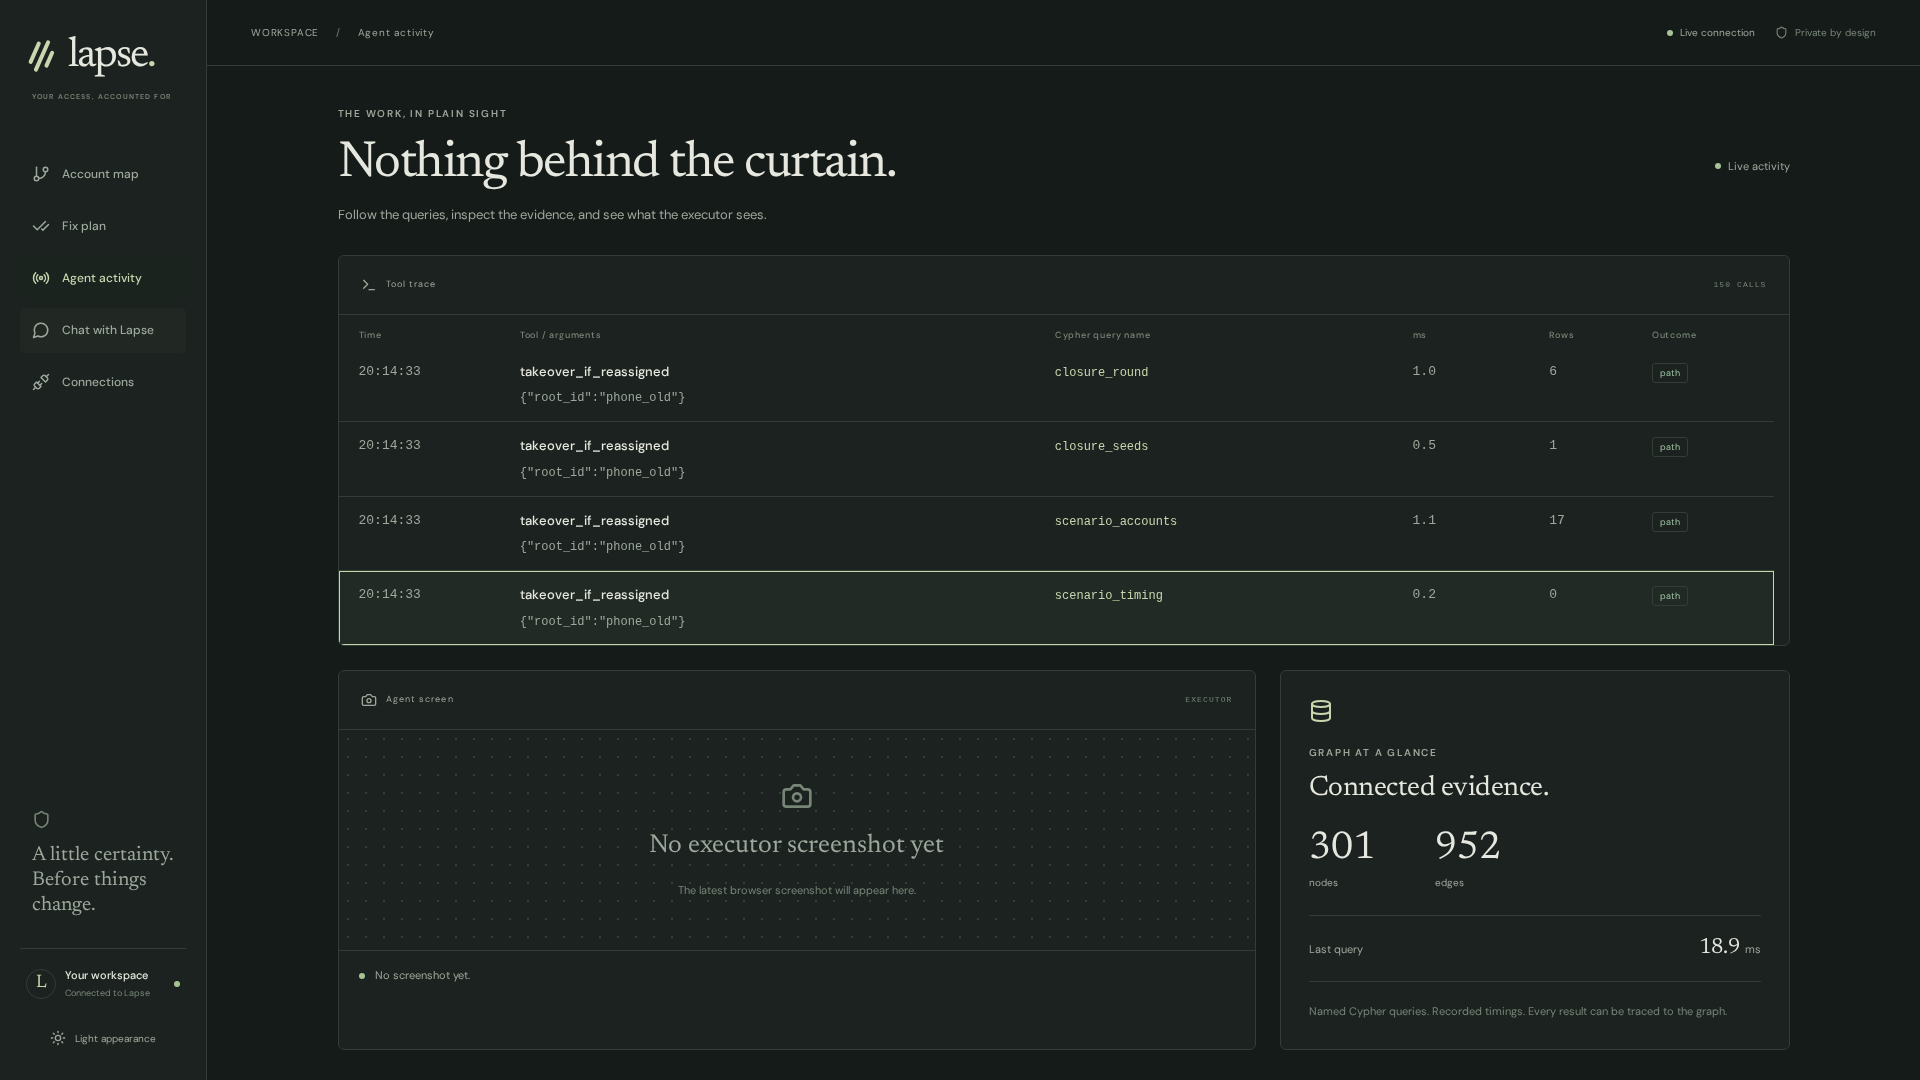
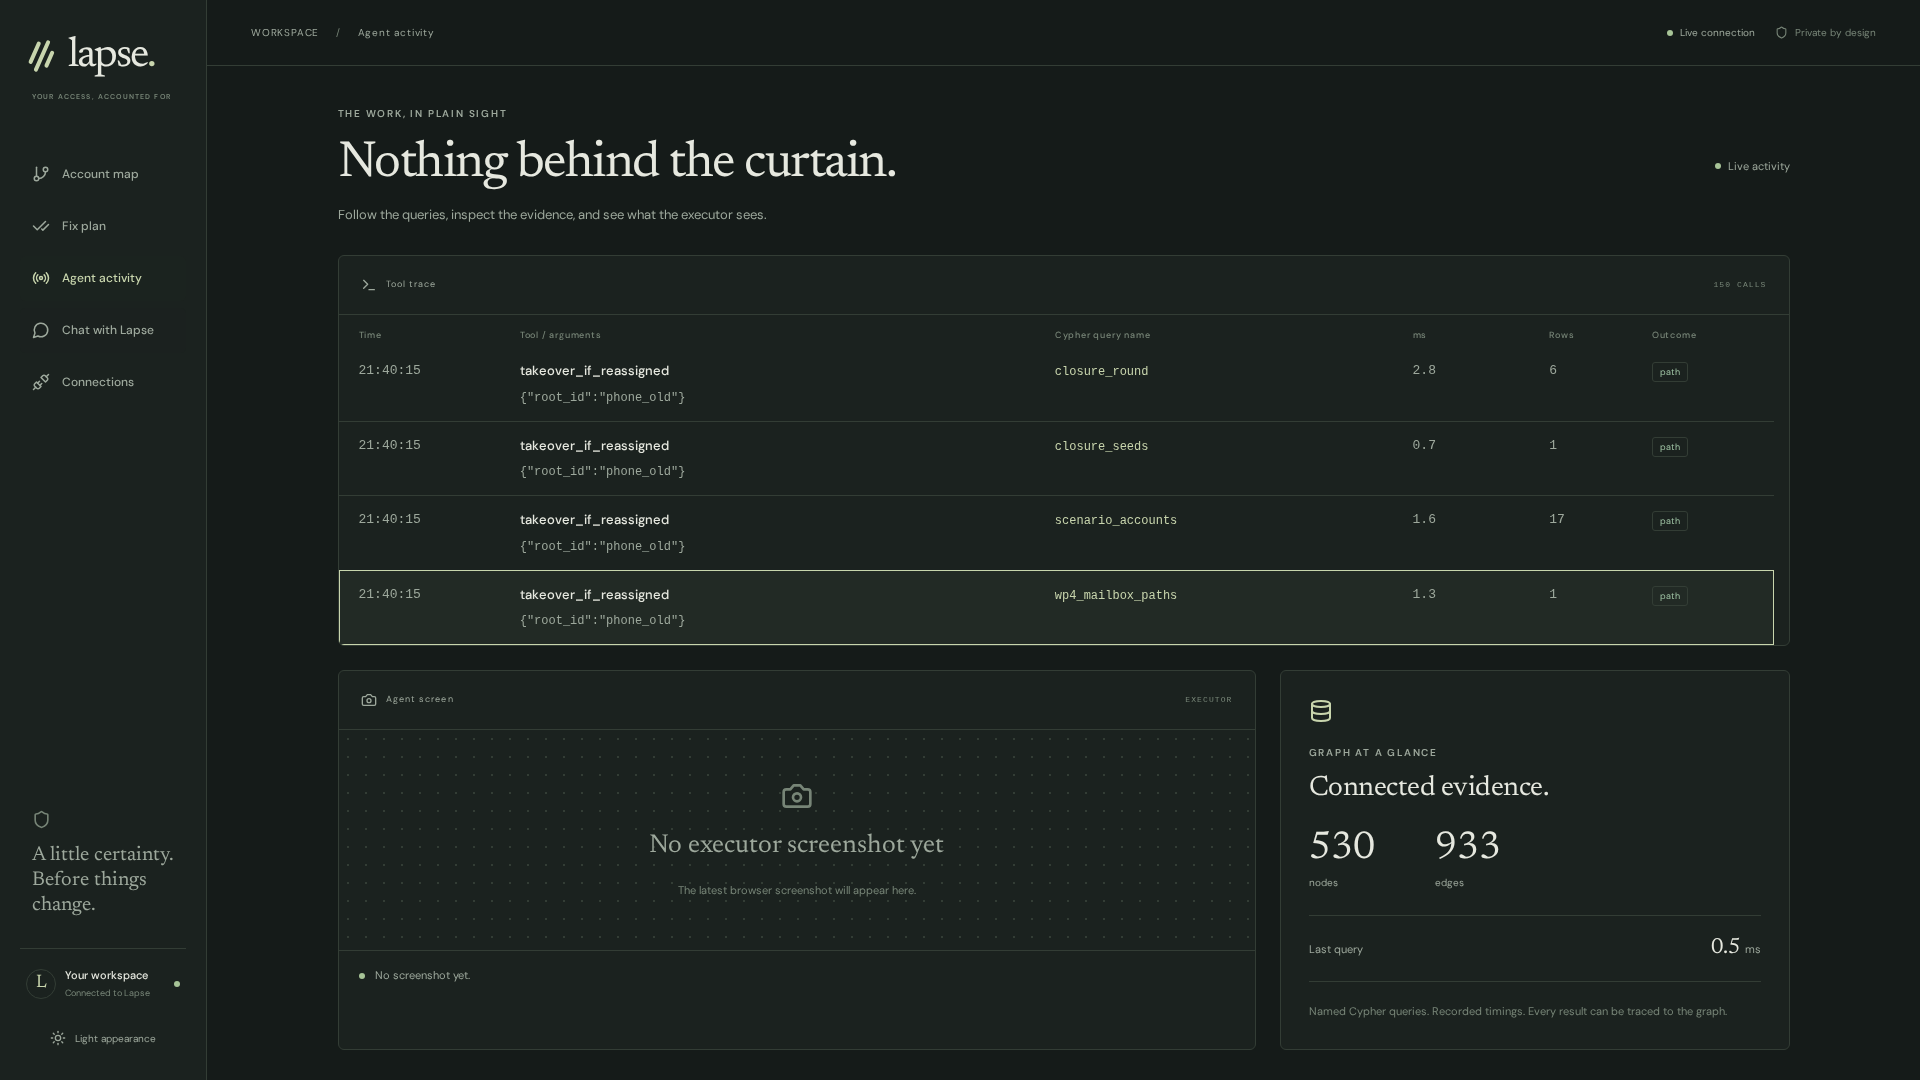
Merge branch 'wp6r2-web': live web integration, chat panel, trace, screenshots

diff --git a/web/docs/verification.md b/web/docs/verification.md
@@ -1,23 +1,55 @@
-# WP6 verification
+# WP6 round 2 verification
 
-Verified 2026-10-17 in the local worktree, against the mock API.
+Verified 2026-10-17 on `wp6r2-web`, after merging `main` at `c7504a6`. The inherited checkpoint is `c0f71ee`; the merge is `53d1bf2`. This report replaces the earlier mock-only verification.
 
-- `npm run typecheck`, `npm test`: passed; 12 tests cover REST/SSE parsing, 5-to-10 account reach, mailbox Root distinction, AND prerequisites, unknown service, college lockout, approval/OTP transitions, graph rewiring, migrated-email takeover risk, stable tiers, bulk T4 exclusion, secret clearing, and stale explanation refresh.
-- `npm run build`: passed. Bundler reports a large graph-inclusive bundle; no build failure. `npm audit`: zero reported vulnerabilities after selecting the current Vitest release.
-- Real browser, 1920×1080 viewport: direct/full cascade; Dropbox path and both prerequisites; GitHub blocked; Splitwise unknown; college 4/4; combined 9/14; approval, OTP, verification, graph count reduction; agent screenshot and 26 trace rows.
-- Connections: fictional credentials submitted, password cleared before response; streamed 1,240 emails, 17 accounts, inferred/confirmed counts; Telegram placeholder displayed. Browser localStorage/sessionStorage remained empty. OTP did not appear in trace text.
-- Light appearance and 390px connections layout: no horizontal overflow.
-- Reduced motion checked on the real browser by injecting the `matchMedia` preference and activating the existing reduced-motion CSS rule. Full chain immediately showed round 3/3; button transitions contained only background-color and opacity. Native OS-level preference emulation was not available through the collaborative browser.
-- Independent read-only review found two defects, both corrected: migrated college accounts incorrectly lost takeover exposure, and an open explanation could remain stale after a verified change. A follow-up review found that compaction hid fixed nodes; completed accounts and their descendants now remain visible. Live Cytoscape checks confirmed Google and Dropbox were green, the phone_new-to-Google edge remained present, and Splitwise was not safe. The final reviewer found no remaining blocker. A comment review found no source comments or suppressions requiring changes.
+## Results
 
-## Replay
+- `uv sync`, `make fixture`, and `npm ci` completed. API ran with `LAPSE_UID=demo` on port 8020 against shared FalkorDB on 6380. No environment file or private persona file was opened.
+- `npm run typecheck`, `npm test`, and `npm run build` passed. Frontend has 35 tests. Build retains a large graph bundle warning and third-party Zod annotation warnings.
+- `uv run --extra browser pytest -q`: 607 passed, including database tests. The browser extra is required by the merged executor tests. `tests/test_api.py` has 39 passing tests; together with `tests/test_wave2_api.py`, 40 pass.
+- Ruff passed for the changed Python files, and `git diff --check` passed.
+- `scripts/verify-live.mjs` passed against Vite on 5174 with `VITE_USE_MOCK=false`, then against the production build behind nginx 1.28 on 8082. The nginx check used the deployment proxy directives with the upstream changed to local port 8020. REST and SSE used relative `/api`; the final browser request origins are in [live-checks.json](live-checks.json).
+- Screenshots use 1920×1080, except `connections-mobile.png` at 390×844. No browser exceptions were observed. Native reduced-motion emulation showed the final cascade round immediately. Light appearance and narrow Connections layout passed the overflow check.
 
-1. Start `npm run dev`; reload to reset the mock.
-2. Verify 5 direct / 10 full accounts, then switch Full chain and wait for round 3/3. Inspect Dropbox, scroll evidence, then GitHub and Splitwise.
-3. Choose College email closes and verify four affected accounts; inspect Google for retained sign-in. Choose Both and verify nine direct / fourteen full accounts.
-4. Build the fix plan. Approve all T1–T3. Confirm Zomato T4 remains unapproved, Google and Swiggy await OTP, T1 completes, and T3 awaits the user before simulated confirmation.
-5. Submit six digits for Google; return to the map with Dropbox selected. Its previous derivation must disappear. One unknown account must remain.
-6. Inspect Agent activity. The screenshot is labelled simulated; query names, timings, row counts and outcomes are visible.
-7. Connect with fictional credentials. Confirm the password field clears and discovery counters progress. Check light appearance, narrow viewport, and reduced motion.
+## Real behavior checked
 
-Live backend interoperability remains unverified because the backend is built in parallel. Screenshot files are browser artifacts, resized by the preview capture tool from the desktop viewport.
+The graph loads roots and returns 5 direct and 10 full-chain accounts for the old phone. The cascade visibly advances through rounds 1, 2, and 3 without moving the map frame. Dropbox shows its evidence subject and sender. Splitwise says it is not in the graph of modelled methods and remains unknown, not safe.
+
+College closure returns zero fresh-sign-in lockouts with the current researched policy. The summary shows `0 lost now` and `Recovery loss not reported`. Password knowledge still permits sign-in under the methods we model. Unit tests cover future `lost_now_accounts` and `recovery_lost_accounts`, including separate counts, account labels, duplicate results, and exclusion of Root nodes. These optional tiers were not fabricated in live screenshots.
+
+The phone plan reports 10 → 0 distinct affected accounts, with separate takeover and lockout counts, remaining and unknown accounts, grouped roles, titles, and notes. Swiggy and Zomato have visible T3 manual instructions. The first live pass exercised per-step approval and bulk approval. Repeated runs reuse unfinished plans and skip approvals already completed. No worker was started to carry out external account changes.
+
+Chat POSTs to the real agent, shows `Working…`, renders the returned text and buttons, opens the risk graph and plan, and links a tool to its highlighted trace row. The trace shows tool, named Cypher query, milliseconds, rows, and outcome. Stats and the empty executor screen use real API responses.
+
+Connections saved explicit fixture email metadata through the real API and returned a Telegram link. No Telegram message was sent. Browser storage remained empty. Tests verify credential clearing, reuse of a matching email root, automatic personal-root creation for supplied credentials, and forwarding only that root ID to ingestion. Live inbox ingestion was not attempted without test mailbox credentials.
+
+`scripts/verify-execution.mjs` stages an explicitly labelled OTP wait, submits a generated test code through the UI, consumes it once from Redis, and checks that it is absent from trace data. Exec and trace SSE updates reach the page. The script also captures a local test page through the real `StepEmitter.screenshot`, serves its nested image through the API, and verifies browser image decoding. The original change and screenshot pointer are restored. This verifies transport, not an external service change.
+
+## Integration fixes
+
+Web changes complete live chat, trace links, scenario refresh, planner details, truthful lockout summaries, optional recovery tiers, OTP relay, and onboarding. Mock mode defaults to off; nginx requests use relative `/api`.
+
+Small API changes keep the inherited port-5174 CORS allowance, accept the executor's JSON screenshot pointer and nested image paths, and forward optional ingestion root IDs to the existing worker. Screenshot path containment and extension checks remain in place. The API regression tests were run failing before these fixes and passing afterward. Main's async chat fix is preserved. Shared graph contracts and graph semantics were not changed on this branch.
+
+Independent review found the screenshot and onboarding mismatches, then a fresh review checked the fixes and found no source blockers. Its checks included typecheck, 35 frontend tests, production build, and 39 API tests. Comment review found no actionable added comments. Review used the same provider; it was independent context, not cross-provider review.
+
+## Screenshot index
+
+All files below are in [screenshots](screenshots/). Older mock screenshots were removed to avoid mixing evidence.
+
+| View | Files |
+| --- | --- |
+| Account map | `graph-direct.png`, `graph-full.png`, `graph-college.png`, `graph-both.png` |
+| Explanation | `explanation-evidence.png`, `unknown-splitwise.png` |
+| Plan | `plans.png`, `plans-phone.png`, `plans-manual-steps.png`, `plans-approved.png` |
+| Staged OTP | `plan-awaiting-otp.png` |
+| Chat | `chat-working.png`, `chat.png` |
+| Trace, stats, screen | `agent-trace.png`, `agent-screen-staged.png` |
+| Connections | `connections.png`, `connections-saved.png`, `connections-mobile.png` |
+| Appearance and motion | `graph-light-reduced-motion.png` |
+
+## Remaining limits
+
+The API does not yet return the two lockout tiers. Chat exposes tool names without a turn/call ID, so simultaneous Telegram activity can make trace correlation approximate. Redis SSE has no event replay; the UI refetches state on reconnect. External inbox discovery and live account execution require configured test accounts and were not claimed as verified here.
+
+See [web setup](../README.md) for replay commands. Fixture loading replaces the shared demo graph; coordinate with other work before reloading it. The live script approves demo steps and saves persona metadata. The execution script additionally requires `uv sync --extra browser` and installed Playwright Chromium.

diff --git a/docs/api.md b/docs/api.md
@@ -7,7 +7,7 @@ Shared graph models come from [lapse/contracts.py](../lapse/contracts.py).
 Dates use `YYYY-MM-DD`. Datetimes use ISO 8601 with a timezone. Enums use lowercase strings.
 The default user is `settings().uid`, configured with `LAPSE_UID`. `X-Lapse-Uid` overrides it per request.
 This header selects a tenant for local demos; it is not authentication. The current web client uses the default user,
-including its EventSource connection. CORS permits `http://localhost:5173`, GET and POST, and the
+including its EventSource connection. CORS permits `http://localhost:5173` and `http://localhost:5174`, GET and POST, and the
 `Content-Type` and `X-Lapse-Uid` headers.
 
 ## Routes
@@ -31,10 +31,10 @@ Redis connection failures return 503.
 | `POST /api/changes/{id}/otp` | `{code}`; nonempty string, at most 128 characters | Current `Change`; stores code transiently without changing status |
 | `GET /api/trace?since=<timestamp>` | Optional ISO datetime | `ToolCallRecord[]` |
 | `GET /api/agent/screen` | None | `{url: string|null, caption: string, mock: false}` |
-| `GET /api/screens/{name}` | Screenshot basename | Image from `data/screens`; PNG, JPEG, WebP, or GIF |
+| `GET /api/screens/{name:path}` | Relative screenshot path, including executor user directory | Image from `data/screens`; PNG, JPEG, WebP, or GIF |
 | `GET /api/stats` | None | `{nodes: integer, edges: integer, last_query_ms: number}` |
 | `POST /api/onboarding` | Inbox and persona fields below | `{telegram_code, telegram_url}` |
-| `POST /api/ingest/run` | `{}` | `{started: true}` after queuing `ingest_run` |
+| `POST /api/ingest/run` | `{}` or `{inboxes: string[]}` of Email root IDs | `{started: true}` after queuing `ingest_run` |
 | `POST /api/chat` | `{text}`; nonempty string | Agent reply `{text, buttons, tool_calls, diagnostics}` with channel `web` |
 | `GET /api/events` | None | SSE stream of complete `GraphEvent` envelopes |
 
@@ -134,7 +134,9 @@ as `ingest_run` and passes its user ID through pipeline and IMAP settings.
 Inbox credentials alone do not create Email roots. For the example above, also provide
 `"emails": [{"id": "email_primary", "address": "demo@example.com", "kind": "personal"}]`, or create that root
 before ingestion. The default job scans `email_primary` and `email_college`; configure roots and credentials
-for both or pass an explicit inbox list to the job. Inbox order does not assign primary or college semantics.
+for both or POST an explicit nonempty `inboxes` list of Email root IDs to `/api/ingest/run`. The web form
+reuses matching email metadata or creates a personal Email root for supplied credentials, then queues that
+root ID. Inbox order does not assign primary or college semantics.
 
 The response uses `https://t.me/<bot>?start=<code>`. `TELEGRAM_BOT_USERNAME` defaults to `LapseAlfredBot`.
 The code is stored in `lapse:tglink:<code>` for one hour. Binding consumes it once and maintains both user-to-chat
@@ -165,8 +167,10 @@ Payloads follow the web decoder:
 SSE emits heartbeat comments through `sse-starlette`. Redis pub/sub has no replay or event cursor; clients must
 re-fetch current state after reconnecting. Disconnect closes the subscription and Redis connection.
 
-`GET /api/agent/screen` reads the latest image path from `lapse:screen:<uid>` and returns an absolute API URL, so
-images resolve from the frontend origin. Without a path, `url` is null. Screenshot serving rejects path escapes,
+`GET /api/agent/screen` reads the executor JSON `{url, caption}` pointer from `lapse:screen:<uid>` and returns an
+absolute API URL. Legacy plain image paths remain supported. The web client resolves screenshot URLs through
+its configured API base, including a same-origin nginx proxy. Without a pointer, `url` is null. Screenshot
+serving accepts nested user directories and rejects path escapes,
 symlinks outside `data/screens`, missing files, and unsupported extensions. Image files are shared static assets
 by filename. UID selection applies to the latest-image pointer, not file authorization.
 

diff --git a/web/README.md b/web/README.md
@@ -36,7 +36,7 @@ WEB_URL=http://localhost:5174 API_URL=http://localhost:8020 node scripts/verify-
 
 The headless check uses the real demo API, creates plans, approves pending T1–T3 steps, sends a chat question, saves fixture persona metadata, and captures every page at 1920×1080. It does not connect an inbox. Use only the demo workspace. `make fixture` replaces the shared demo graph; coordinate its use with other workers.
 
-`node scripts/verify-execution.mjs` separately stages a labelled `awaiting_otp` change, checks OTP relay and live SSE, then restores the original change. It does not run an executor. See [verification and remaining gaps](docs/verification.md).
+`node scripts/verify-execution.mjs` separately stages a labelled `awaiting_otp` change, checks OTP relay and live SSE, and captures a local test page through the real executor screenshot emitter. It restores the original change and screenshot pointer. Install the Python browser extra with `uv sync --extra browser` first. No external account action runs. See [verification and remaining gaps](docs/verification.md).
 
 ## Demo sequence
 
